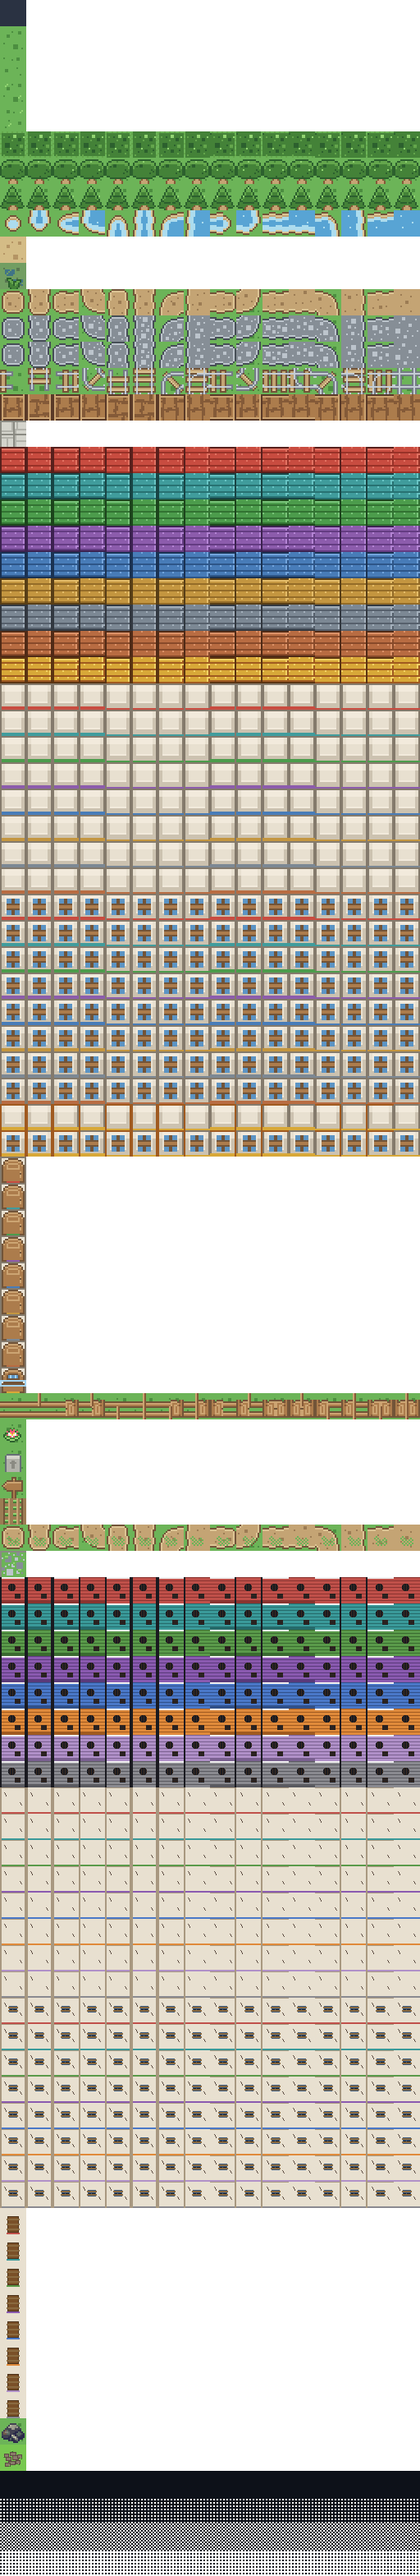
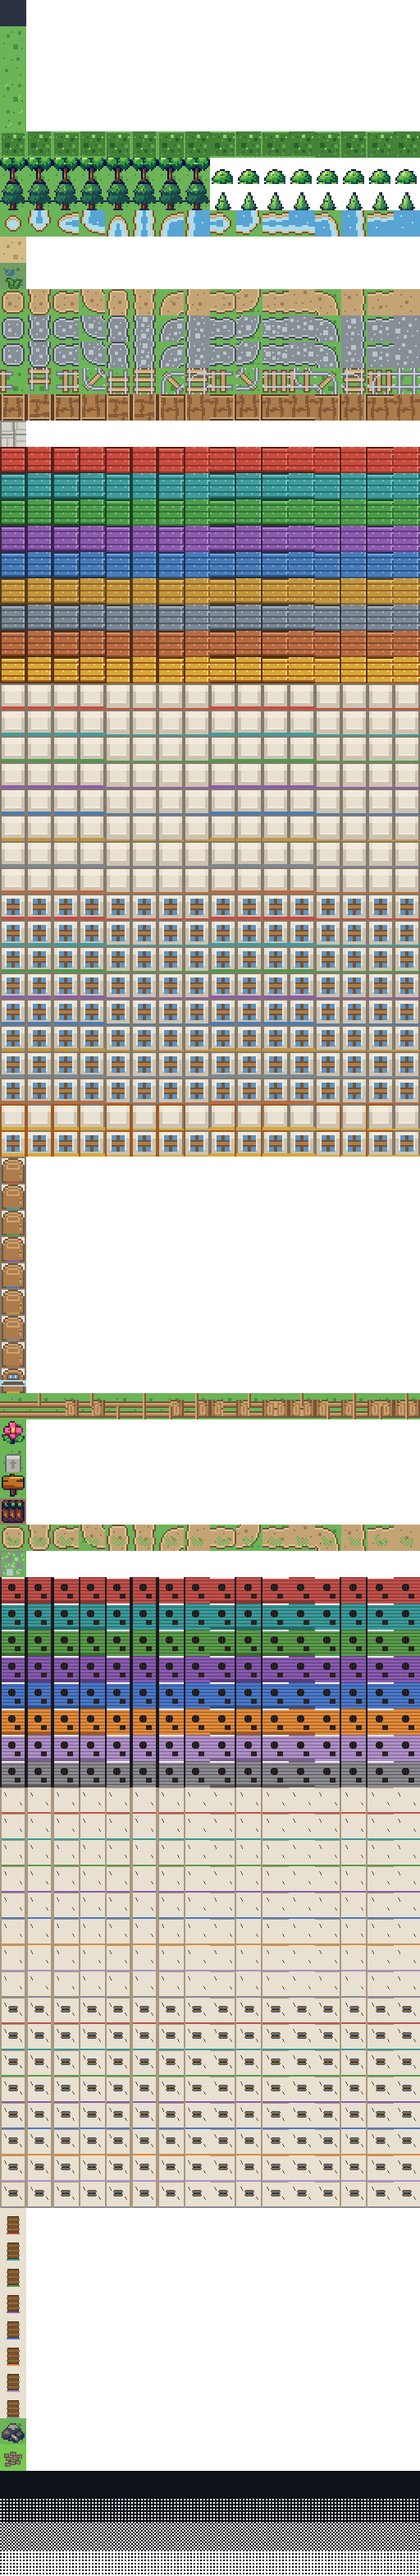
feat(map): integrate Tier 4 two-block-tall trees and small objects into original_v1 (Item 42)

Changed region(s): [[0.0, 0.0625, 1.0, 0.0938], [0.0, 0.5312, 0.0625, 0.5938]]

diff --git a/tools/art_pipeline/recolour_tiles.py b/tools/art_pipeline/recolour_tiles.py
@@ -573,38 +573,30 @@ def generate_original_atlas(pack_sheet_path=None):
                 tg_m.set(15, y, grass0.get(15, y) if y % 3 != 2 else TS_TERRAIN_PALETTE["tall_upper"])
         put_16(mask, idx["tall_grass"], tg_m)
 
-    # Rows 6..7: TREE 0 (round) and TREE 1 (conifer) over grass0
-    tree_round_fg = recolour_rgba(src[(13, 9)])
-    tree_conifer_fg = recolour_rgba(src[(16, 9)])
-    # Add short brown trunk from (16, 11) to conifer base so it sits cleanly on the ground
-    trunk_src = recolour_rgba(src[(16, 11)])
-    for ty in range(13, 16):
-        for tx in range(5, 11):
-            c = trunk_src.get(tx, ty)
-            if c[3] >= 128:
-                tree_conifer_fg.set(tx, ty, c)
-    for v, base_fg in enumerate([tree_round_fg, tree_conifer_fg]):
-        for mask in range(16):
-            t_m = grass0.copy()
-            t_m.paste(base_fg, 0, 0, only_opaque=True)
-            # Subtle crown leaf highlights per cardinal neighbour so all 16 masks are distinct without border bars
-            if mask & 1:
-                t_m.set(7, 2, TS_TERRAIN_PALETTE["tall_tip"])
-            else:
-                t_m.set(7, 2, TS_TERRAIN_PALETTE["tall_mid"])
-            if mask & 2:
-                t_m.set(12, 7, TS_TERRAIN_PALETTE["tall_tip"])
-            else:
-                t_m.set(12, 7, TS_TERRAIN_PALETTE["tall_deep"])
-            if mask & 4:
-                t_m.set(8, 11, TS_TERRAIN_PALETTE["tall_mid"])
-            else:
-                t_m.set(8, 11, TS_TERRAIN_PALETTE["tall_deep"])
-            if mask & 8:
-                t_m.set(4, 7, TS_TERRAIN_PALETTE["tall_tip"])
-            else:
-                t_m.set(4, 7, TS_TERRAIN_PALETTE["tall_mid"])
-            put_16(mask, idx["tree"][v], t_m)
+    # Rows 6..7: TREE 0 (round) and TREE 1 (conifer) — 2-block-tall (16x32 px) Tier 4 sprites (§3.2, §6.3)
+    # Columns 0..7 store the bottom 16x16 half (trunk + lower crown) composited over grass0;
+    # columns 8..15 store the top 16x16 half (upper crown with transparent background) for the canopy overhang layer.
+    terrain_dir = os.path.join(repo_root, "game", "assets", "original", "terrain")
+    tree_round_img = al.read_png(os.path.join(terrain_dir, "tree_round.png"))
+    tree_conifer_img = al.read_png(os.path.join(terrain_dir, "tree_conifer.png"))
+    for v, tree_img in enumerate([tree_round_img, tree_conifer_img]):
+        top_16 = tree_img.crop(0, 0, 16, 16)
+        bot_16 = tree_img.crop(0, 16, 16, 32)
+        for m in range(8):
+            # Bottom half (cols 0..7): composited over grass0 (100% opaque)
+            b_m = grass0.copy()
+            b_m.paste(bot_16, 0, 0, only_opaque=True)
+            b_m.set(6, 3, TS_TERRAIN_PALETTE["tall_tip"] if (m & 1) else TS_TERRAIN_PALETTE["tall_mid"])
+            b_m.set(7, 3, TS_TERRAIN_PALETTE["tall_tip"] if (m & 2) else TS_TERRAIN_PALETTE["tall_deep"])
+            b_m.set(8, 3, TS_TERRAIN_PALETTE["tall_upper"] if (m & 4) else TS_TERRAIN_PALETTE["tall_mid"])
+            put_16(m, idx["tree"][v], b_m)
+
+            # Top half (cols 8..15): transparent background around upper crown
+            t_m = top_16.copy()
+            t_m.set(6, 10, TS_TERRAIN_PALETTE["tall_tip"] if (m & 1) else TS_TERRAIN_PALETTE["tall_mid"])
+            t_m.set(7, 10, TS_TERRAIN_PALETTE["tall_tip"] if (m & 2) else TS_TERRAIN_PALETTE["tall_deep"])
+            t_m.set(8, 10, TS_TERRAIN_PALETTE["tall_upper"] if (m & 4) else TS_TERRAIN_PALETTE["tall_mid"])
+            put_16(8 + m, idx["tree"][v], t_m)
 
     # Row 8: WATER 0 (0..15 via Rule B from (2..4, 0..2) and center (0, 0))
     w_nw = recolour_rgba(src[(2, 0)])
@@ -864,31 +856,24 @@ def generate_original_atlas(pack_sheet_path=None):
                 fm.set(8, y, TS_TERRAIN_PALETTE["wood_seam"])
         put_16(mask, idx["fence"], fm)
 
-    # Row 54: FLOWERS 0
-    flowers0 = recolour_rgba(src[(25, 11)], bg_tile=grass0)
+    # Row 54: FLOWERS 0 (Tier 4 obj_flowers.png over grass0)
+    flowers0 = grass0.copy()
+    flowers0.paste(al.read_png(os.path.join(terrain_dir, "obj_flowers.png")), 0, 0, only_opaque=True)
     put_16(0, idx["flowers"], flowers0)
 
-    # Row 55: GRAVE 0
+    # Row 55: GRAVE 0 (pack headstone (51, 9) over grass0, §3.2)
     grave0 = recolour_rgba(src[(51, 9)], bg_tile=grass0)
     put_16(0, idx["grave"], grave0)
 
-    # Row 56: SIGN 0
-    sign0 = recolour_rgba(src[(20, 0)], bg_tile=grass0)
+    # Row 56: SIGN 0 (Tier 4 obj_sign.png over grass0)
+    sign0 = grass0.copy()
+    sign0.paste(al.read_png(os.path.join(terrain_dir, "obj_sign.png")), 0, 0, only_opaque=True)
     put_16(0, idx["sign"], sign0)
 
-    # Row 57: CROP 0 (tilled furrows (13, 19) over path_pebble/rim with green crop sprouts)
+    # Row 57: CROP 0 (Tier 4 obj_crop.png over path_pebble soil base)
     crop0 = al.Image(16, 16)
     crop0.fill(TS_TERRAIN_PALETTE["path_pebble"])
-    crop_furrow = recolour_rgba(src[(13, 19)], cmap={
-        al.hexc("#908570"): TS_TERRAIN_PALETTE["path_rim"],
-        al.hexc("#d9caa9"): TS_TERRAIN_PALETTE["path_pebble"],
-        al.hexc("#e6dabf"): TS_TERRAIN_PALETTE["path_base"],
-    })
-    crop0.paste(crop_furrow, 0, 0, only_opaque=True)
-    for cy in (2, 6, 10, 14):
-        for cx in (3, 4, 8, 9, 12):
-            crop0.set(cx, cy, TS_TERRAIN_PALETTE["tall_mid"])
-            crop0.set(cx, cy - 1, TS_TERRAIN_PALETTE["grass_hi"])
+    crop0.paste(al.read_png(os.path.join(terrain_dir, "obj_crop.png")), 0, 0, only_opaque=True)
     put_16(0, idx["crop"], crop0)
 
     # Rows 60..91 & Row 93: Retired broken building rows + RUBBLE v=1 copied from placeholder_v1.png

diff --git a/tools/test_original_atlas.py b/tools/test_original_atlas.py
@@ -76,7 +76,11 @@ class TestOriginalAtlas(unittest.TestCase):
                 seen_hashes = set()
                 for m in range(16):
                     tm = atlas_img.crop(m * 32, r_idx * 32, (m + 1) * 32, (r_idx + 1) * 32)
-                    self.assertEqual(tm.opaque_count(), 1024, f"Masked row {r_idx} col {m} must be fully opaque")
+                    if r_idx in (6, 7) and m >= 8:
+                        self.assertGreater(tm.opaque_count(), 0, f"Tree row {r_idx} top-crown col {m} must have opaque foliage")
+                        self.assertLess(tm.opaque_count(), 1024, f"Tree row {r_idx} top-crown col {m} must have transparent overhang corners")
+                    else:
+                        self.assertEqual(tm.opaque_count(), 1024, f"Masked row {r_idx} col {m} must be fully opaque")
                     h = hashlib.sha256(bytes(tm.px)).hexdigest()
                     seen_hashes.add(h)
                 self.assertEqual(len(seen_hashes), 16, f"Masked row {r_idx} must have 16 pairwise-distinct mask tiles, got {len(seen_hashes)}")
@@ -132,6 +136,27 @@ class TestOriginalAtlas(unittest.TestCase):
 
         self.assertIn("Kenney", cr_text, "CREDITS.md must credit Kenney for the CC0 Roguelike/RPG Pack")
         self.assertIn("CC0", cr_text, "CREDITS.md must name CC0")
+
+    def test_tier4_terrain_sprites_and_tree_canopy_layers(self):
+        """Assert Tier 4 16x32 trees and 16x16 small objects exist in game/assets/original/terrain/ and map_view.gd has TreeTopKnown/Cleared."""
+        terrain_dir = os.path.join(self.repo_root, "game", "assets", "original", "terrain")
+        for tree_name in ("tree_round.png", "tree_conifer.png"):
+            p = os.path.join(terrain_dir, tree_name)
+            self.assertTrue(os.path.isfile(p), f"Missing {p}")
+            im = al.read_png(p)
+            self.assertEqual((im.w, im.h), (16, 32), f"{tree_name} must be 16x32 px (1x2 tiles)")
+
+        for obj_name in ("obj_flowers.png", "obj_sign.png", "obj_crop.png", "obj_bush.png"):
+            p = os.path.join(terrain_dir, obj_name)
+            self.assertTrue(os.path.isfile(p), f"Missing {p}")
+            im = al.read_png(p)
+            self.assertEqual((im.w, im.h), (16, 16), f"{obj_name} must be 16x16 px (1x1 tile)")
+
+        mv_path = os.path.join(self.repo_root, "game", "world", "map_view.gd")
+        with open(mv_path, "r", encoding="utf-8") as f:
+            mv_text = f.read()
+        self.assertIn("TreeTopKnown", mv_text)
+        self.assertIn("TreeTopCleared", mv_text)
 
 
 if __name__ == "__main__":

diff --git a/CREDITS.md b/CREDITS.md
@@ -6,7 +6,7 @@ The original game sprites in `game/assets/original/` are AI-assisted:
 - **Base model:** Qwen-Image-2512 Q8_0 GGUF (unsloth) under Apache-2.0 (`https://huggingface.co/Qwen/Qwen-Image-2512`).
 - **LoRA:** Lightning 8-step LoRA V1.0 under Apache-2.0.
 - **Code-drawn decals:** The cracks (`decal_cracks`), grass tufts (`decal_tufts`), and creeping vine (`decal_creeper`) were drawn by the project's own code (`tools/art_pipeline/draw_overlays.py`).
-- **Human approval:** The human maintainer approved Tier 1 assets on 2026-11-01 (Decision 38), Tier 2 landmark and initial block assets on 2026-11-04 (Decision 49) and 2026-11-05 (Decision 50), and Tier 2 whole ruined city blocks (`ruined_block_8x7_b`, `ruined_block_6x11_a`, `ruined_block_6x11_b`, `ruined_block_9x9_a`, `ruined_block_9x9_b`, `ruined_block_11x13_a`, `ruined_block_11x13_b`, `ruined_block_16x14_a`, `ruined_block_16x14_b`, `ruined_block_23x14_a`, `ruined_block_23x14_b`) on 2026-11-08 (Decision 52). Complete generation and review metadata for each asset is recorded in `game/assets/original/provenance.json`.
+- **Human approval:** The human maintainer approved Tier 1 assets on 2026-11-01 (Decision 38), Tier 2 landmark and initial block assets on 2026-11-04 (Decision 49) and 2026-11-05 (Decision 50), Tier 2 whole ruined city blocks (`ruined_block_8x7_b`, `ruined_block_6x11_a`, `ruined_block_6x11_b`, `ruined_block_9x9_a`, `ruined_block_9x9_b`, `ruined_block_11x13_a`, `ruined_block_11x13_b`, `ruined_block_16x14_a`, `ruined_block_16x14_b`, `ruined_block_23x14_a`, `ruined_block_23x14_b`) on 2026-11-08 (Decision 52), and Tier 4 trees and small map objects (`tree_round`, `tree_conifer`, `obj_flowers`, `obj_sign`, `obj_crop`, `obj_bush`) on 2026-11-08 (Decision 53). Complete generation and review metadata for each asset is recorded in `game/assets/original/provenance.json`.
 
 ## Terrain Tiles (CC0)
 
